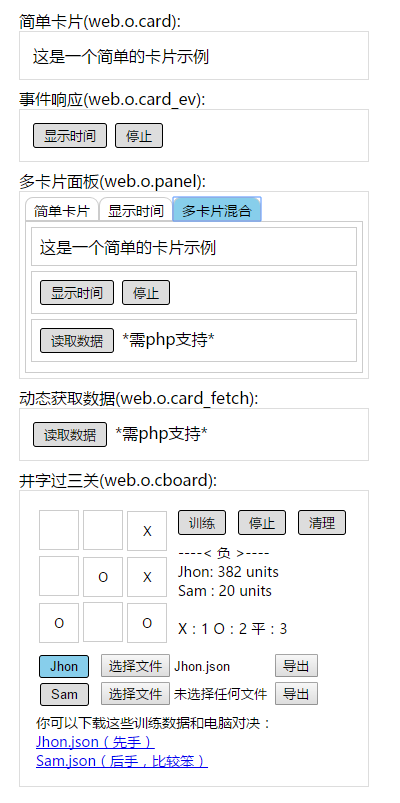
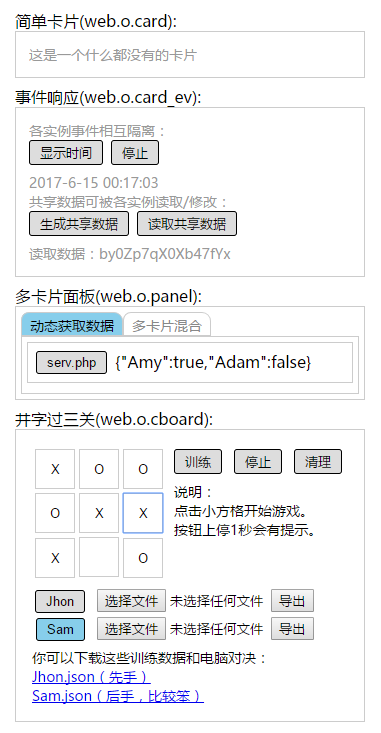
少量代码修改。修改Readme。

Changed region(s): [[0.0289, 0.0, 0.9528, 0.9905], [0.8661, 0.2701, 0.895, 0.3001]]

diff --git a/src/js/example.js b/src/js/example.js
@@ -50,8 +50,8 @@ web.o.card_ev = function (container_id) {
                     '<input type="button" id="' + this.el('stop') + '" value="停止" class="card-btn">' +
                     '<div class="card-text" id="' + this.el('content_time') + '"></div>' +
                     '共享数据可被各实例读取/修改：<br>'+
-                    '<input type="button" id="' + this.el('save') + '" value="生成共享数据" class="card-btn">' +
-                    '<input type="button" id="' + this.el('load') + '" value="读取共享数据" class="card-btn">' +
+                    '<input type="button" id="' + this.el('cache') + '" value="生成共享数据" class="card-btn">' +
+                    '<input type="button" id="' + this.el('restore') + '" value="读取共享数据" class="card-btn">' +
                     '<div class="card-text" id="' + this.el('content_data') + '"></div>' +
                     '</div>';
         },
@@ -67,13 +67,13 @@ web.o.card_ev = function (container_id) {
                 'stop': function () {
                     this.f.clear_timer();
                 },
-                'save': function () {
+                'cache': function () {
                     var content = cardjs.lib.rand(16);
-                    this.f.save(content);
+                    this.f.cache(content);
                     this.el('content_data', true).innerHTML = '共享数据：' + content;
                 },
-                'load': function () {
-                    var content = this.f.load();
+                'restore': function () {
+                    var content = this.f.restore();
                     this.el('content_data', true).innerHTML = '读取数据：' + content;
                 }
             });
@@ -81,8 +81,8 @@ web.o.card_ev = function (container_id) {
         add_event: function () {
             this.f.on('click', 'show_time');
             this.f.on('click', 'stop');
-            this.f.on('click', 'save');
-            this.f.on('click', 'load');
+            this.f.on('click', 'cache');
+            this.f.on('click', 'restore');
         }
     }));
 };

diff --git a/src/lib/card.js b/src/lib/card.js
@@ -818,17 +818,21 @@
                     var Database = (function () {
                         var d = {};
                         return ({
-                            save: function (data, key) {
+                            cache: function (data, key) {
                                 //console.log('db:',this);
-                                key = key || this.settings.key;
+                                if (key === undefined) {
+                                    key = this.settings.key;
+                                }
                                 if (!Lib.isString(key)) {
                                     throw new Error('CardJS.Database.save(data,key) key must be string.');
                                 }
                                 d[key] = data;
                             },
-                            load: function (key) {
+                            restore: function (key) {
                                 //console.log('db:',this);
-                                key = key || this.settings.key;
+                                if (key === undefined) {
+                                    key = this.settings.key;
+                                }
                                 if (key in d) {
                                     return (d[key]);
                                 }

diff --git a/src/js/test.js b/src/js/test.js
@@ -89,24 +89,24 @@ web.o.cdb = function (cid) {
         settings: {header: 'card_db', key: 'null', add_event: true},
         gen_html: function () {
             var html = '';
-            html += '<input type="button" value="save" id="' + this.el('save') + '">';
-            html += '<input type="button" value="load" id="' + this.el('load') + '">';
+            html += '<input type="button" value="cache" id="' + this.el('cache') + '">';
+            html += '<input type="button" value="restore" id="' + this.el('restore') + '">';
             return html;
         },
         gen_ev_handler: function () {
             return ({
-                'save':function(){
+                'cache':function(){
                     console.log('set data.');
-                    this.f.save('hello!');
+                    this.f.cache('hello!');
                 },
-                'load':function(){
-                    console.log('got data:',this.f.load());
+                'restore':function(){
+                    console.log('got data:',this.f.restore());
                 }
             });
         },
         add_event: function () {
-            this.f.on('click','save');
-            this.f.on('click','load');
+            this.f.on('click','cache');
+            this.f.on('click','restore');
         }
     }));
 };

diff --git a/README.md b/README.md
@@ -1,5 +1,6 @@
-card.js用于简化动态生成网页时的代码编写过程。  
-主要部分详见 `src/lib/card.js` 及 `src/serv.php`   
+card.js用于编写单面应用(SPA)，非常简陋的js库。  
+前端代码： `src/lib/card.js`  
+后端代码： `src/serv.php`     
 使用方法详见示例 `example.html` 及 `example.js`  
   
 ### 实例 ###  
@@ -19,18 +20,16 @@ card.js的设计目的就是简化这些工作。
 （Panel可以类比看成浏览器的标签栏）  
     
 ### card.js导出对象 ###  
-card.js默认导出 CardJS，包含以下四个对象  
-CardJS.Lib 通用函数，可直接调用  
-CardJS.Card 生成网页中的各个"卡片"  
-CardJS.Page 将多个“卡片”整合开成一个“页”  
-CardJS.Panel 将多个“页”整合成“面板”，并实现动态切换  
+card.js默认导出 CardJS，包含以下对象  
+cardjs.set 设置初始参数（通常用不上）
+cardjs.lib 通用函数，可直接调用  
+cardjs.card 生成网页中的各个"卡片"  
+cardjs.create 简化Card/Page/Panel创建过程的函数。  
   
 详细用法请看 example.html 及 example.js  
   
 ### 协议 ###   
 GPLv3  
   
-
-
   [1]: https://jjling2011.github.io/card.js/src/example.html
   [2]: https://raw.githubusercontent.com/jjling2011/card.js/master/readme/example_html.png
